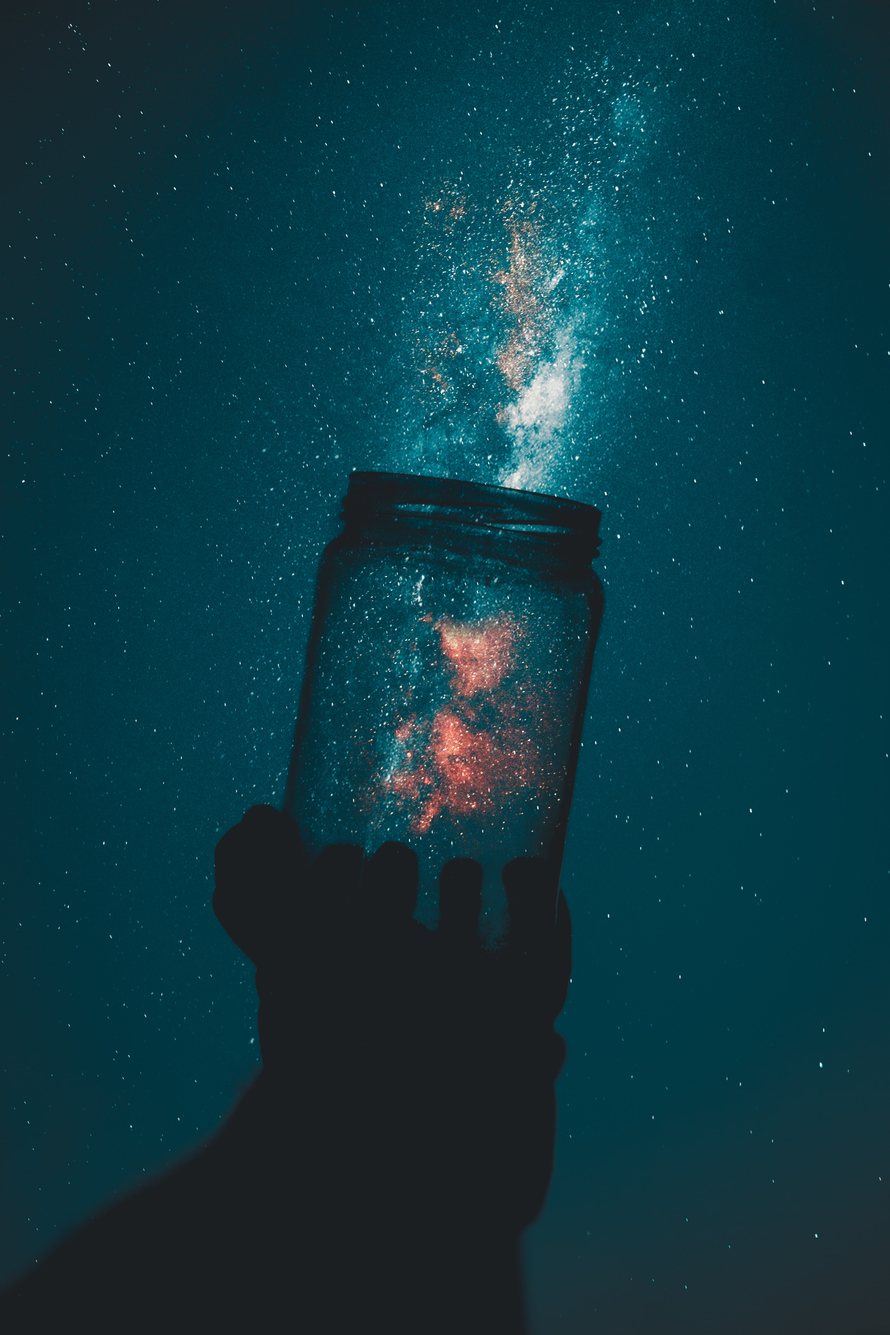
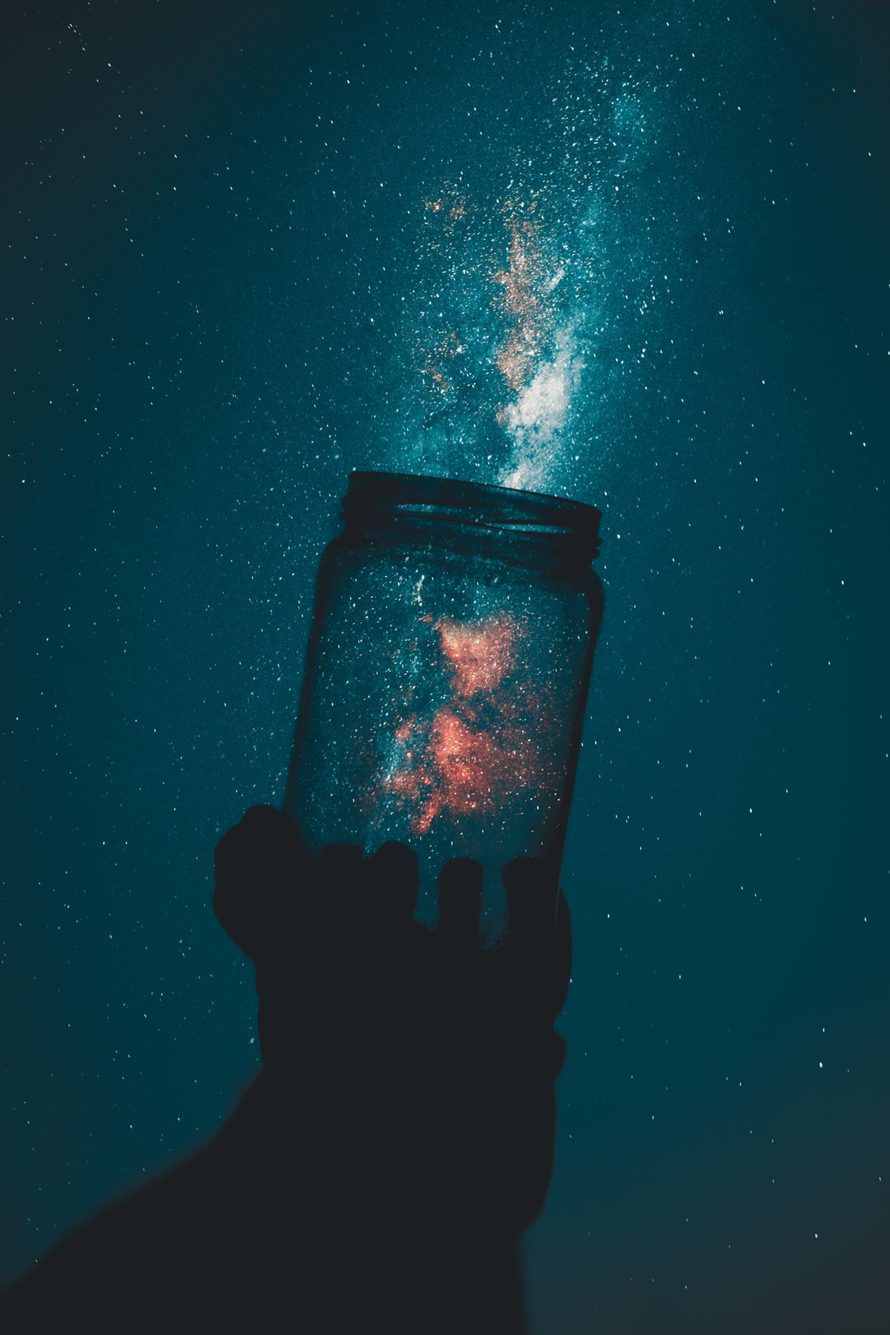
Add background color (#2)
* Add background color
* optimize image

Changed region(s): [[0.5, 0.1245, 0.6562, 0.2802], [0.4688, 0.2491, 0.5312, 0.2802]]

diff --git a/public/index.html b/public/index.html
@@ -17,7 +17,7 @@
 		}
 		body {
 			height: 100vh;
-			background: url("/images/pexels-rakicevic-nenad-1274260.jpg") no-repeat center;
+			background: url("/images/pexels-rakicevic-nenad-1274260.jpg") no-repeat center #013a45;
 			background-size: cover;
 			color: white;
 			font-family: 'Cabin', Helvetica, Arial, sans-serif;
